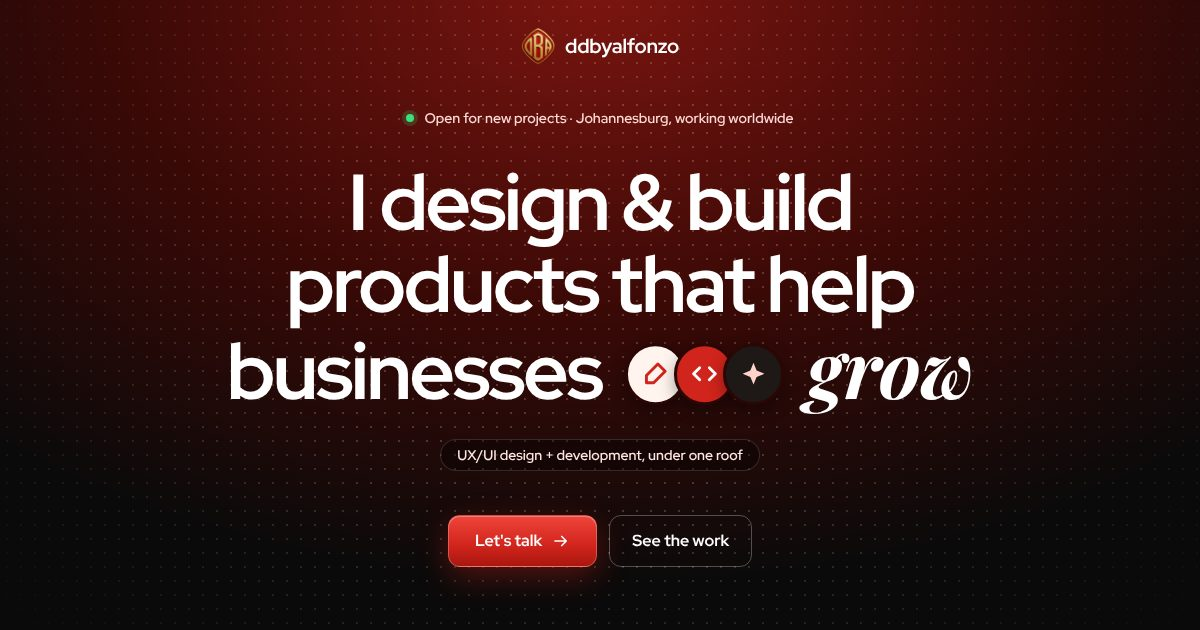
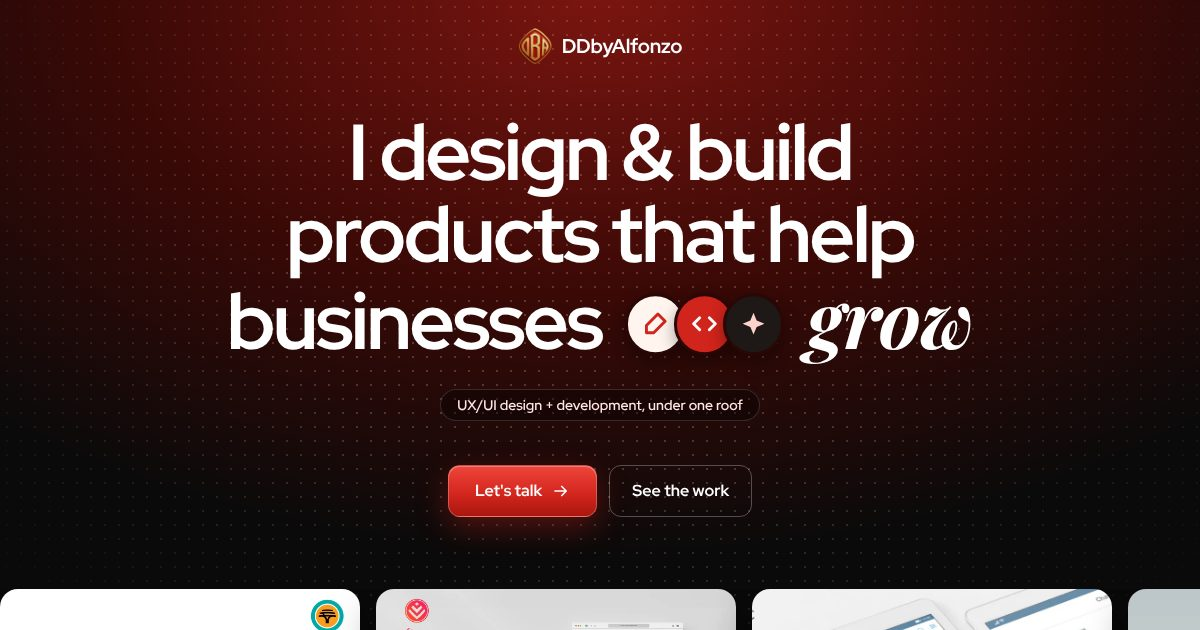
Write the brand name as DDbyAlfonzo everywhere
Claude-Session: https://claude.ai/code/session_01RGXm2sznEa5HXF7aCCAmfR

Changed region(s): [[0.185, 0.181, 0.8325, 0.6635], [0.0, 0.6937, 1.0, 1.0], [0.4317, 0.0302, 0.5858, 0.1206]]

diff --git a/index.html b/index.html
@@ -252,6 +252,7 @@ footer .wrap{position:relative;z-index:1}
 .fgrid h3{margin:0 0 16px;font:700 16px/1 var(--sans);color:#fff}
 .fgrid a{display:block;padding:7px 0;text-decoration:none;color:#B6ABAA}
 .fgrid a:hover{color:#fff}
+.fgrid a.logo{display:inline-flex}
 .fgrid p{margin:14px 0 0;max-width:34ch;color:#9C9091}
 .fbot .legal a{color:#B6ABAA;text-decoration:none;display:inline-flex;min-height:44px;align-items:center}.fbot .legal a:hover{color:#fff}
 .fbot{display:flex;justify-content:space-between;flex-wrap:wrap;gap:12px;padding-block:24px;font-size:14px;color:#857A79}
@@ -408,7 +409,7 @@ html.still .shots-track,html.still .logo-row,html.still .ticker-row,html.still .
   <!-- HERO -->
   <header class="hero">
     <div class="wrap">
-      <a class="logo" href="#top" aria-label="DDbyAlfonzo home"><img src="img/logo.webp" alt="">ddbyalfonzo</a>
+      <a class="logo" href="#top" aria-label="DDbyAlfonzo home"><img src="img/logo.webp" alt="">DDbyAlfonzo</a>
       <h1 id="heroH"><span class="w">I</span> <span class="w">design</span> <span class="w">&amp;</span> <span class="w">build</span> <span class="w">products</span> <span class="w">that</span> <span class="w">help</span> <span class="w">businesses</span>
         <span class="glyphs" aria-hidden="true">
           <span class="g1"><svg viewBox="0 0 24 24"><path d="M14 4l6 6-9.5 9.5H4.5v-6z" fill="none" stroke="currentColor" stroke-width="2.4" stroke-linejoin="round"/></svg></span>
@@ -645,14 +646,14 @@ html.still .shots-track,html.still .logo-row,html.still .ticker-row,html.still .
 <footer>
   <div class="wrap">
     <div class="fgrid">
-      <div><a class="logo" href="#top" style="color:#fff;padding:0"><img src="img/logo.webp" alt="">ddbyalfonzo</a><p>Designed &amp; developed by Alfonzo Louw. Websites, apps and brands for growing businesses.</p></div>
+      <div><a class="logo" href="#top" style="color:#fff;padding:0"><img src="img/logo.webp" alt="">DDbyAlfonzo</a><p>Designed &amp; developed by Alfonzo Louw. Websites, apps and brands for growing businesses.</p></div>
       <div><h3>Explore</h3><a href="#work">Work</a><a href="#products">Products</a><a href="#services">Services</a><a href="#packages">Ways to work together</a><a href="#faq">FAQ</a></div>
       <div><h3>Services</h3><a href="#services">UX/UI design</a><a href="#services">Web development</a><a href="#services">Branding &amp; motion</a><a href="#process">How it works</a></div>
       <div><h3>Connect</h3><a href="https://www.flowlo.co.za/" target="_blank" rel="noopener">FlowLo</a><a href="#contact">Start a project</a><a href="https://www.linkedin.com/in/alfonzolouw" target="_blank" rel="noopener">LinkedIn</a><a href="#contact">Johannesburg, South Africa</a></div>
     </div>
     <div class="fbot"><span>© <span id="yr">2026</span> DDbyAlfonzo. All rights reserved.</span><span class="legal"><a href="privacy.html">Privacy notice</a> · <a href="terms.html">Terms of use</a></span></div>
   </div>
-  <div class="word" aria-hidden="true">ddbyalfonzo</div>
+  <div class="word" aria-hidden="true">DDbyAlfonzo</div>
 </footer>
 
 <nav class="dock" aria-label="Main">

diff --git a/privacy.html b/privacy.html
@@ -28,7 +28,7 @@ a{color:var(--red)}
 </style>
 </head>
 <body>
-<header><a href="./"><img src="img/logo.webp" alt="">ddbyalfonzo</a></header>
+<header><a href="./"><img src="img/logo.webp" alt="">DDbyAlfonzo</a></header>
 <main>
 <h1>Privacy <em>notice</em></h1>
 <p class="upd">Last updated: 8 November 2026</p>

diff --git a/terms.html b/terms.html
@@ -28,7 +28,7 @@ a{color:var(--red)}
 </style>
 </head>
 <body>
-<header><a href="./"><img src="img/logo.webp" alt="">ddbyalfonzo</a></header>
+<header><a href="./"><img src="img/logo.webp" alt="">DDbyAlfonzo</a></header>
 <main>
 <h1>Terms of <em>use</em></h1>
 <p class="upd">Last updated: 8 November 2026</p>
